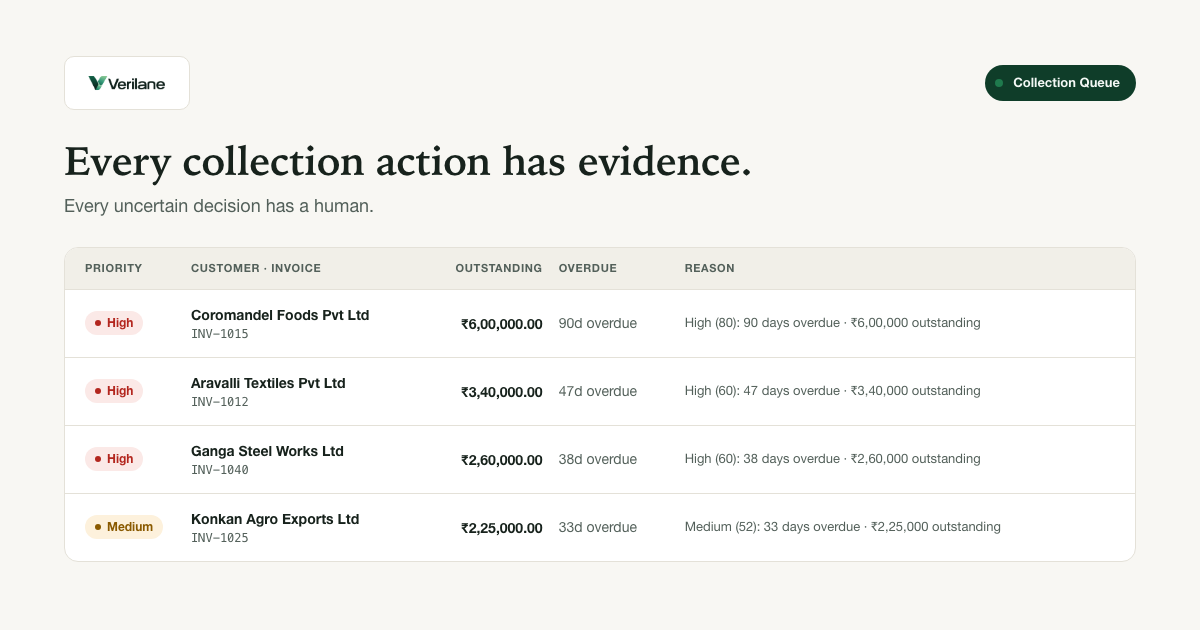
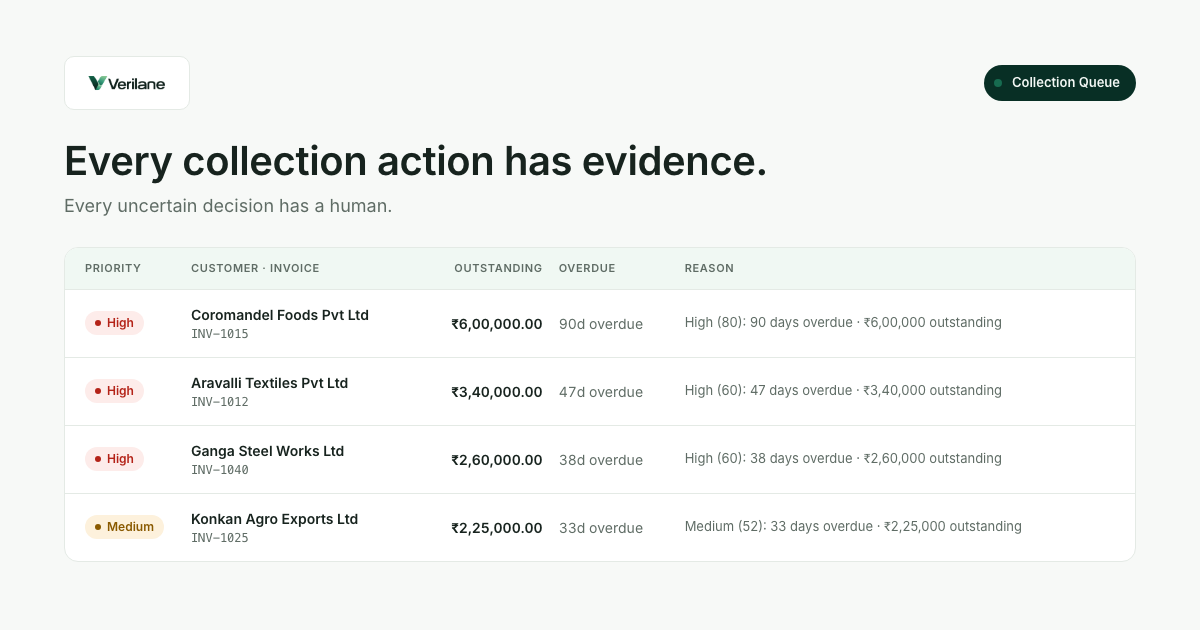
feat(TASK-57): regenerate og.png in the emerald look (R1)

diff --git a/.design/exploration/og/og.html b/.design/exploration/og/og.html
@@ -4,30 +4,31 @@
 <meta charset="utf-8" />
 <title>Verilane — OG image candidate</title>
 <style>
+  @font-face { font-family: "Inter"; src: url("inter-latin.woff2") format("woff2"); font-weight: 100 900; font-display: block; }
   /* Tokens copied from src/app/globals.css :root (light theme — the OG
      card always renders light regardless of viewer theme, per
      web-deliverables.md §4: a social preview is a fixed asset). */
   :root {
-    --canvas: #f8f7f3;
-    --surface: #ffffff;
-    --surface-sunken: #f1efe8;
-    --border: #e4e1d8;
-    --border-strong: #cdc8bb;
-    --text: #17221c;
-    --text-muted: #53605a;
-    --brand: #1f7a4d;
-    --brand-strong: #145c38;
-    --rail: #0f3d29;
+    --canvas: #f7f9f7;
+    --surface: #fff;
+    --surface-sunken: #f0f8f3;
+    --border: #e4eae5;
+    --border-strong: #cbd6cf;
+    --text: #17231e;
+    --text-muted: #5f6c65;
+    --brand: #176b50;
+    --brand-strong: #104b38;
+    --rail: #082f25;
     --rail-text: #f3f8f5;
     --rail-muted: #b9d4c5;
-    --high: #b3261e;
-    --high-bg: #fbe9e7;
+    --high: #b42318;
+    --high-bg: #fdecea;
     --med: #8a5a00;
     --med-bg: #fdf1dc;
     --r-lg: 14px;
     --r-md: 10px;
-    --font-ui: ui-sans-serif, -apple-system, "Segoe UI", Roboto, "Helvetica Neue", Arial, sans-serif;
-    --font-display: "Iowan Old Style", "Charter", "Source Serif 4", Georgia, serif;
+    --font-ui: "Inter", ui-sans-serif, -apple-system, "Segoe UI", Roboto, "Helvetica Neue", Arial, sans-serif;
+    --font-display: "Inter", ui-sans-serif, -apple-system, "Segoe UI", Roboto, sans-serif;
     --font-mono: ui-monospace, "SF Mono", Menlo, Consolas, monospace;
   }
   * { box-sizing: border-box; }
